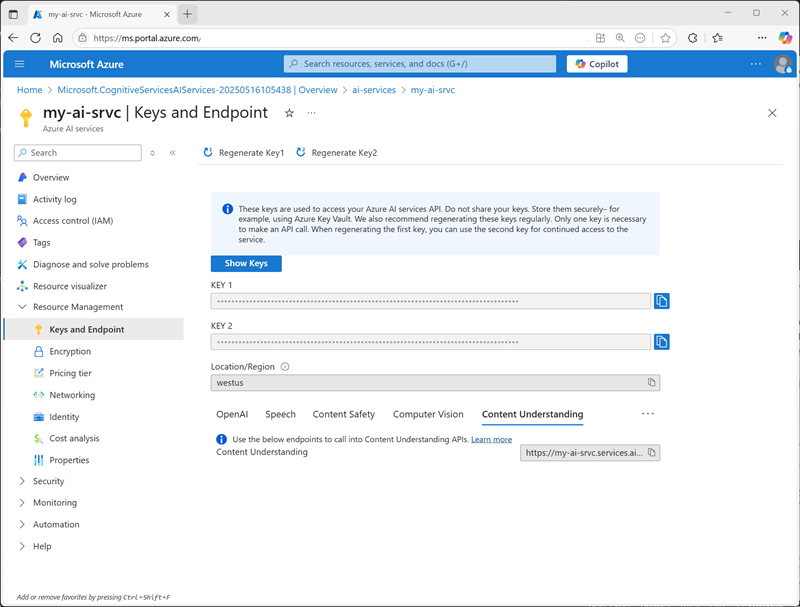
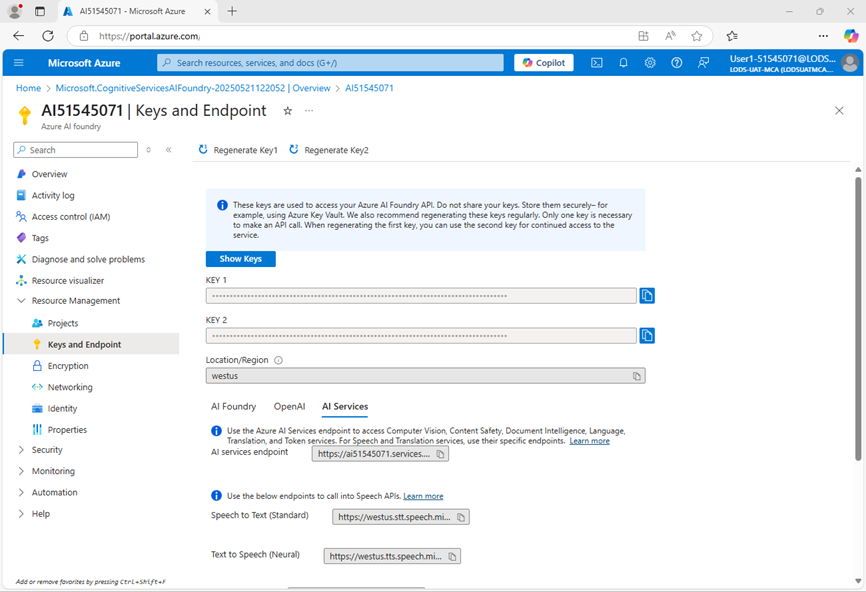
Updated API lab

diff --git a/Instructions/Labs/02-content-understanding-api.md b/Instructions/Labs/02-content-understanding-api.md
@@ -15,28 +15,20 @@ This exercise takes approximately **30** minutes.
 Let's start by creating an Azure AI services resource.
 
 1. In a web browser, open the [Azure portal](https://portal.azure.com) at `https://portal.azure` and sign in using your Azure credentials. Close any tips or quick start panes that are opened the first time you sign in.
-
-1. In the home page, in the search box at the top of the page, search for `Azure AI services`.
-1. On the search results page, in the navigation pane on the left, under **All Azure AI ser ices** and **Azure AI services**, select **Azure AI services**.
-
-    ![Screenshot of search results in the Azure portal for Azure AI services.](./media/azure-ai-services.png)
-
-    > **Important!** Be sure to select the **Azure AI services** resource under **All Azure AI services** with the following icon:<br>![Azure AI services icon.](./media/azure-ai-services-icon.png)<br>There's another Azure resource type named Azure AI services, which won't work for this exercise.
-
-1. After selecting **Azure AI services**, above the list of existing Azure AI services resources in your subscription (if any), select **+ Create**; and create a new Azure AI services resource with the following settings:
+1. Create a new `Azure AI Foundry` resource with the following settings:
     - **Subscription**: *Your Azure subscription*
     - **Resource group**: *Create or select a resource group*
+    - **Name**: *A valid name for your Azure AI Foundry resource*
     - **Region**: Choose one of the following regions\*
         - West US
         - Sweden Central
         - Australia East
-    - **Name**: *A valid name for your Azure AI services resource*
-    - **Pricing tier**: Standard S0
+    - **Default project name**: *A valid name for your project*
 
     > \*At the time of writing, Azure AI Content understanding is only avilable in these regions.
 
 1. Wait for the resource to be created, then go to its page in the Azure portal.
-1. In the page for your Azure AI services resource, in the navigation pane on the left, under **Resource management**, select **Keys and endpoint** to view the keys and endpoint page for the resource. Then select the **Content Understanding** tab:
+1. In the page for your Azure AI Foundry resource, in the navigation pane on the left, under **Resource management**, select **Keys and endpoint** to view the keys and endpoint page for the resource. Then select the **AI Services** tab:
 
     ![Screenshot of Content Understanding keys and endpoint in the Azure AI portal.](./media/keys-and-endpoint.png)
 
